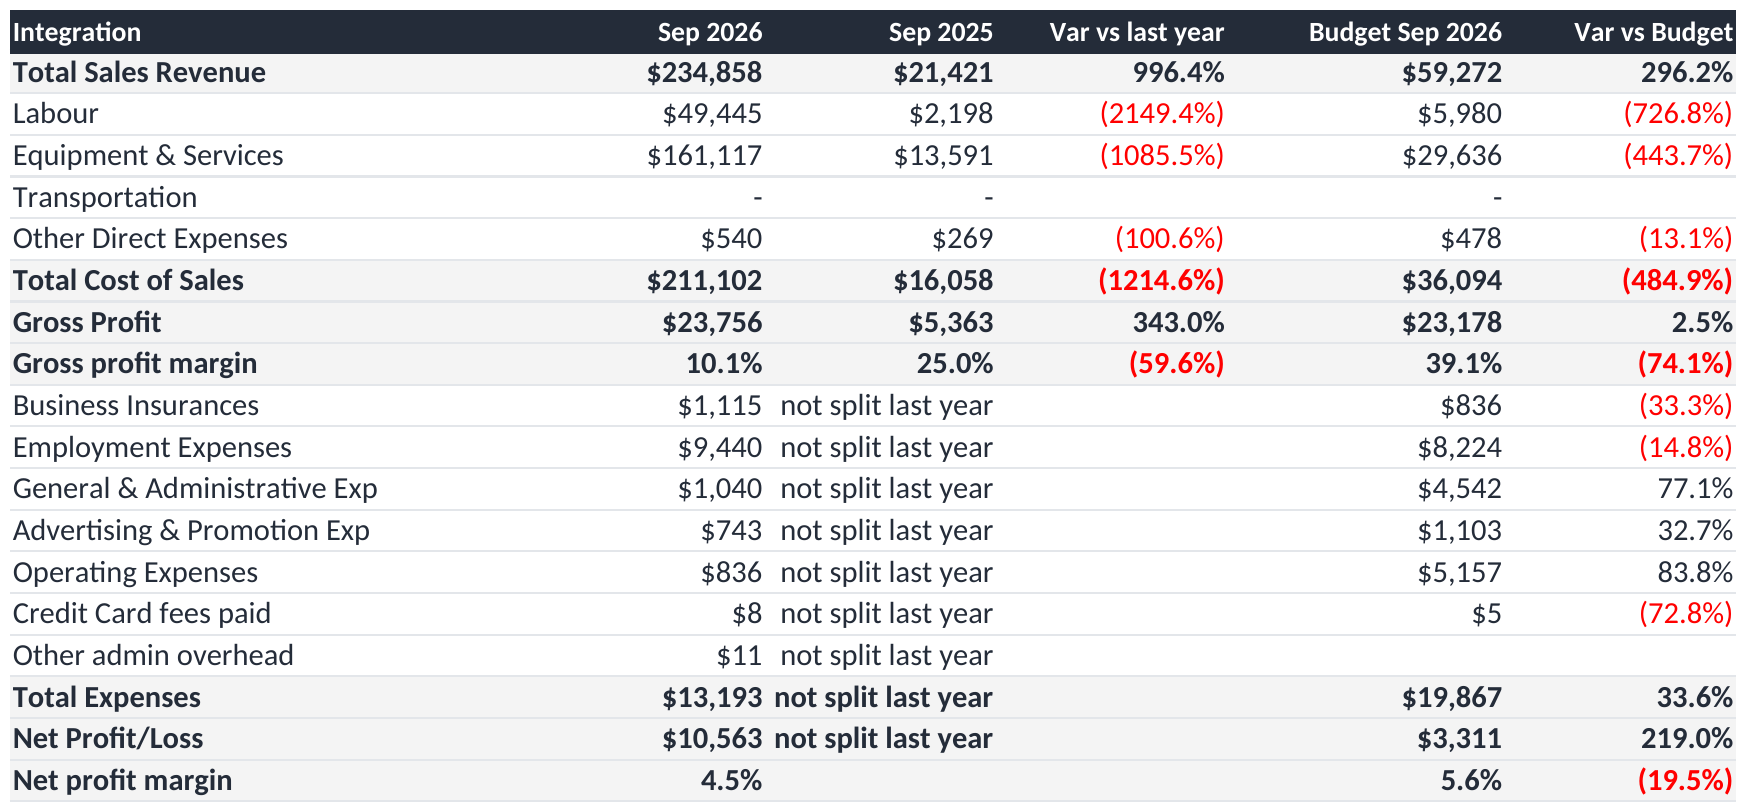
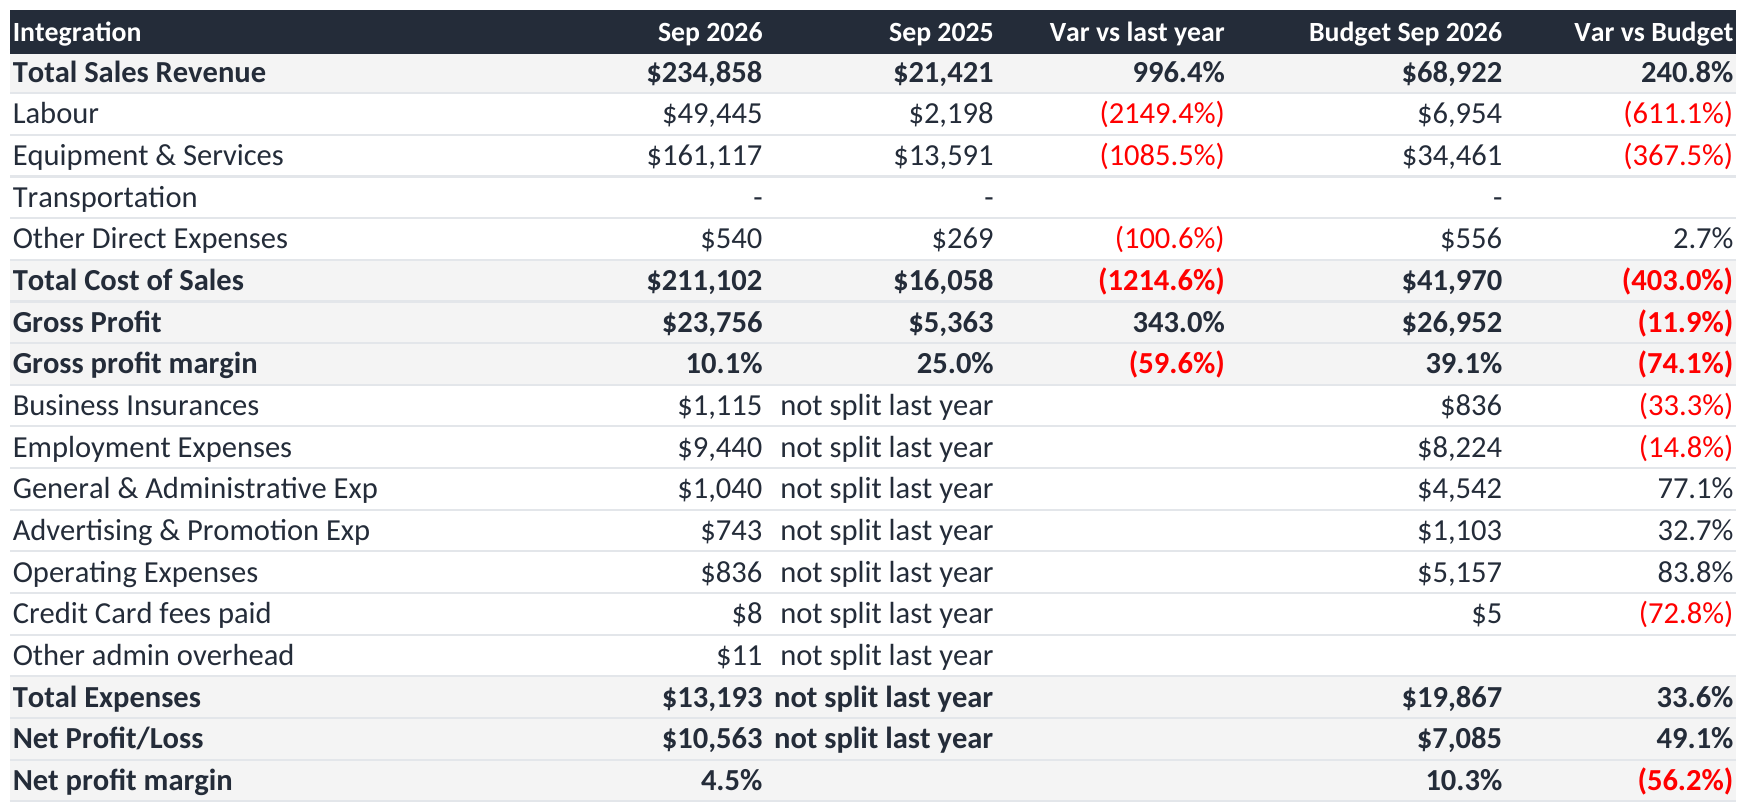
Build scripts for Danica's restructured deck
herdeck.py fits content to her layout: section and title in one box top
left, content on the left, commentary in a panel down the right. It drops
the hidden slides, the duplicate Results By Reporting Group and the two
department slides the P&L by Dept sheet has no block for, places each
picture in the space left of the panel centred both ways, and writes the
commentary into the right hand column from the pack.

snaputil.py snips the Jul-Sept sheet of the utilisation report, which is
not part of the pack and so needs its own small snipper.

Claude-Session: https://claude.ai/code/session_01CVBAFohBCYXt1ufjTVDiZj

diff --git a/deck/edits/herdeck.py b/deck/edits/herdeck.py
@@ -1,0 +1,206 @@
+"""Build Danica's edited quarter deck.
+
+She restructured the deck: the section and title in one box top left, the
+content on the left, and the commentary in a panel down the right hand side.
+This fits content to that layout rather than the old bottom band.
+
+What it does:
+  drops every hidden slide
+  drops the duplicate Results By Reporting Group, and the two department
+    slides the P&L by Dept sheet has no block for
+  puts each picture in the space left of the commentary panel, centred
+  writes the commentary into the right hand panel, read from the pack
+  leaves the slides she embedded Excel objects into alone
+
+Figures are read from the controller pack. None are typed.
+"""
+import copy, sys, os
+import openpyxl
+from PIL import Image
+from pptx import Presentation
+from pptx.util import Emu, Inches, Pt
+
+sys.path.insert(0, os.path.dirname(os.path.abspath(__file__)))
+from qcommentary import figures, build_text, grp_notes
+
+SNIP = '/home/user/Claude/deck/snips/'
+GAP = 0.18          # between the content and the panel
+
+# slide title (lower case) -> (snip id, new title or None, which commentary)
+FILL = {
+    'profit and loss by reporting group, first quarter fy2027': ('q1_pl', None, 'pl'),
+    'support q1':     ('pl_sup',  'Support Q1',     'sup'),
+    'events q1':      ('pl_prd',  'Production Q1',  'prd'),
+    'consulting q1':  ('pl_cons', 'Consulting Q1',  'cons'),
+    'utilisation per employee, first quarter fy2027': ('util_q1', None, 'util'),
+}
+# titles to drop outright
+DROP_EXTRA = {'video q1', 'integration q1'}
+DROP_DUPLICATE = 'results by reporting group, first quarter fy2027'
+
+
+def title_of(slide):
+    """Her layout puts the section and the title in one box, so the title is
+    the last non-empty line of Text 0. Older slides still use Text 1."""
+    for name in ('Text 1', 'Text 0'):
+        for sh in slide.shapes:
+            if sh.name == name and sh.has_text_frame:
+                lines = [x.strip() for x in sh.text_frame.text.split('\n') if x.strip()]
+                if len(lines) > 1 or (name == 'Text 1' and lines):
+                    return lines[-1]
+    return ''
+
+
+def set_title(slide, text):
+    for sh in slide.shapes:
+        if sh.name != 'Text 0' or not sh.has_text_frame:
+            continue
+        paras = [p for p in sh.text_frame.paragraphs if p.text.strip()]
+        if len(paras) >= 2 and paras[-1].runs:
+            paras[-1].runs[0].text = text
+            for extra in paras[-1].runs[1:]:
+                extra.text = ''
+            return True
+    return False
+
+
+def drop(pres, idx):
+    ids = pres.slides._sldIdLst
+    el = list(ids)[idx]
+    pres.part.drop_rel(el.rId)
+    ids.remove(el)
+
+
+def put_picture(slide, png, name):
+    """Fill the space left of the commentary panel, centred both ways."""
+    panel = next((sh for sh in slide.shapes if sh.name == 'commentary panel'), None)
+    if panel is None:
+        return None
+    left0 = 0.55
+    top0 = Emu(panel.top).inches
+    room_w = Emu(panel.left).inches - GAP - left0
+    room_h = Emu(panel.height).inches
+    tree = slide.shapes._spTree
+    for sh in list(slide.shapes):
+        if 'PICTURE' in str(sh.shape_type) and sh.name.startswith('snip'):
+            tree.remove(sh._element)
+    im = Image.open(png)
+    aspect = im.width / im.height
+    h = min(room_h, room_w / aspect)
+    w = h * aspect
+    pic = slide.shapes.add_picture(png, Inches(left0 + (room_w - w) / 2),
+                                   Inches(top0 + (room_h - h) / 2),
+                                   width=Inches(w), height=Inches(h))
+    pic.name = name
+    tree.remove(pic._element)
+    tree.insert(2, pic._element)
+    return w, h
+
+
+def write_panel(slide, lines):
+    """All the commentary goes in the right hand column. The old second
+    column is emptied, because her panel is one column, not two."""
+    by = {sh.name: sh for sh in slide.shapes}
+    body = by.get('Text 5')
+    if body is None:
+        return
+    tf = body.text_frame
+    tf.word_wrap = True
+    first = tf.paragraphs[0]
+    for para in list(tf.paragraphs)[1:]:
+        para._p.getparent().remove(para._p)
+    for r in list(first.runs)[1:]:
+        r._r.getparent().remove(r._r)
+    if not first.runs:
+        return
+    first.runs[0].text = lines[0]
+    for extra in lines[1:]:
+        np = copy.deepcopy(first._p)
+        first._p.getparent().append(np)
+        from pptx.text.text import _Paragraph
+        _Paragraph(np, tf).runs[0].text = extra
+    for para in tf.paragraphs:
+        for r in para.runs:
+            r.font.size = Pt(9)
+    extra_box = by.get('Text 5b')
+    if extra_box is not None:
+        slide.shapes._spTree.remove(extra_box._element)
+
+
+def main(src, out):
+    f = figures()
+    text = build_text(f)
+    g = f['grp']
+
+    def d(v):
+        return ('$(%s)' % format(abs(round(v)), ',')) if v < 0 else ('$%s' % format(round(v), ','))
+
+    text['sup'] = [
+        'Support billed %s for the quarter at a %.1f%% gross margin.' % (d(g['Support']['income']), g['Support']['gpc'] * 100),
+        'It is the steadiest book in the business, close to the same figure every month.',
+        'Overhead of %s leaves %s of net profit.' % (d(abs(g['Support']['oh'])), d(g['Support']['net'])),
+        'A %.1f%% net margin, and the only reporting group above the line.' % (g['Support']['netc'] * 100),
+        'It is covering the losses in the other two.',
+    ]
+    text['prd'] = [
+        'Production billed %s for the quarter and kept %s at the gross line, %.1f%%.' % (d(g['Production']['income']), d(g['Production']['gp']), g['Production']['gpc'] * 100),
+        'August carried it. Most of the quarter landed in that one month.',
+        'July and September were both loss making.',
+        'Overhead of %s turns that gross profit into a net loss of %s.' % (d(abs(g['Production']['oh'])), d(abs(g['Production']['net']))),
+        'Events is almost all of it. Video is small on both sides.',
+    ]
+    text['cons'] = [
+        'Consulting billed %s but kept only %s, a %.1f%% gross margin.' % (d(g['Consulting']['income']), d(g['Consulting']['gp']), g['Consulting']['gpc'] * 100),
+        'September is the month. Most of the quarter arrived on project completion.',
+        'Integration is the volume. The Consulting department itself billed very little.',
+        'Overhead of %s leaves a net loss of %s.' % (d(abs(g['Consulting']['oh'])), d(abs(g['Consulting']['net']))),
+        'This is turnover without margin rather than a cost problem.',
+    ]
+    text['util'] = [
+        'Support ran 6,942 chargeable hours against 393 non-chargeable, 95% of hours worked.',
+        'Production billed 954 hours against 1,150 non-chargeable.',
+        'Consulting is the same shape on a smaller base, 179 against 280.',
+        'Leave took 1,258 hours across the quarter, 543 of it in Production.',
+        'Across CTS the quarter ran 8,074 chargeable hours against 1,823 non-chargeable.',
+    ]
+
+    pres = Presentation(src)
+
+    # 1. hidden slides, the duplicate and the two surplus department slides
+    seen_dup = False
+    for i in range(len(pres.slides) - 1, -1, -1):
+        s = pres.slides[i]
+        t = title_of(s).lower()
+        if s._element.get('show') == '0':
+            drop(pres, i); continue
+        if t in DROP_EXTRA:
+            print('  dropped surplus: %s' % title_of(s)); drop(pres, i); continue
+        if t == DROP_DUPLICATE:
+            has_pic = any('PICTURE' in str(sh.shape_type) and sh.name.startswith('snip')
+                          for sh in s.shapes)
+            if not has_pic:
+                print('  dropped duplicate: %s' % title_of(s)); drop(pres, i)
+    print('  %d slides left' % len(pres.slides))
+
+    # 2. fill
+    for i, s in enumerate(pres.slides, 1):
+        t = title_of(s).lower()
+        if t not in FILL:
+            continue
+        snip, newtitle, key = FILL[t]
+        png = os.path.join(SNIP, snip + '.png')
+        if not os.path.exists(png):
+            print('  %-3d %-34s PNG MISSING, left alone' % (i, t[:34])); continue
+        if newtitle:
+            set_title(s, newtitle)
+        geom = put_picture(s, png, 'snip ' + snip)
+        write_panel(s, text[key])
+        print('  %-3d %-34s %s  %.2f x %.2f' % (i, (newtitle or title_of(s))[:34], snip,
+                                                geom[0], geom[1]))
+
+    pres.save(out)
+    print('%d slides out' % len(pres.slides))
+
+
+if __name__ == '__main__':
+    main(sys.argv[1], sys.argv[2])

diff --git a/deck/build/snaputil.py b/deck/build/snaputil.py
@@ -1,0 +1,57 @@
+"""Snip the Jul-Sept sheet of the utilisation report.
+
+It is not part of the controller pack, so it gets its own small snipper. Same
+settings as snip.py: landscape, fit to width, no header or footer, trimmed.
+"""
+import os, subprocess, sys
+import openpyxl
+from openpyxl.worksheet.properties import PageSetupProperties
+
+HERE = os.path.dirname(os.path.abspath(__file__))
+WORK = os.path.join(HERE, 'snipwork')
+OUT = os.path.join(HERE, '..', 'snips')
+SOFFICE = os.path.join(HERE, 'soffice_shim.py') if os.path.exists(
+    os.path.join(HERE, 'soffice_shim.py')) else None
+
+
+def main(src, sheet, rng, snip_id, hide_cols=''):
+    os.makedirs(WORK, exist_ok=True)
+    wb = openpyxl.load_workbook(src)
+    for ws in wb.worksheets:
+        ws.sheet_state = 'visible' if ws.title == sheet else 'hidden'
+    wb.active = wb.index(wb[sheet])
+    ws = wb[sheet]
+    for col in hide_cols:
+        ws.column_dimensions[col].hidden = True
+    ws.print_area = rng
+    ws.page_setup.orientation = 'landscape'
+    ws.page_setup.fitToWidth = 1
+    ws.page_setup.fitToHeight = 0
+    ws.sheet_properties.pageSetUpPr = PageSetupProperties(fitToPage=True)
+    ws.print_options.gridLines = False
+    for side in ('left', 'right', 'top', 'bottom'):
+        setattr(ws.page_margins, side, 0.15)
+    ws.page_margins.header = ws.page_margins.footer = 0
+    for hf in (ws.oddHeader, ws.oddFooter, ws.evenHeader, ws.evenFooter,
+               ws.firstHeader, ws.firstFooter):
+        for part in (hf.left, hf.center, hf.right):
+            part.text = None
+    ws.HeaderFooter.differentFirst = False
+    ws.HeaderFooter.differentOddEven = False
+    x = os.path.join(WORK, snip_id + '.xlsx')
+    wb.save(x)
+    subprocess.run(['soffice', '--headless', '--convert-to', 'pdf', '--outdir', WORK, x],
+                   check=True, capture_output=True)
+    pdf = os.path.join(WORK, snip_id + '.pdf')
+    png = os.path.join(OUT, snip_id + '.png')
+    subprocess.run(['pdftoppm', '-f', '1', '-l', '1', '-r', '200', '-png',
+                    '-singlefile', pdf, png[:-4]], check=True, capture_output=True)
+    from snip import trim
+    trim(png)
+    from PIL import Image
+    im = Image.open(png)
+    print('  %-12s %-18s %-12s %dx%d' % (snip_id, sheet, rng, im.width, im.height))
+
+
+if __name__ == '__main__':
+    main(*sys.argv[1:])
